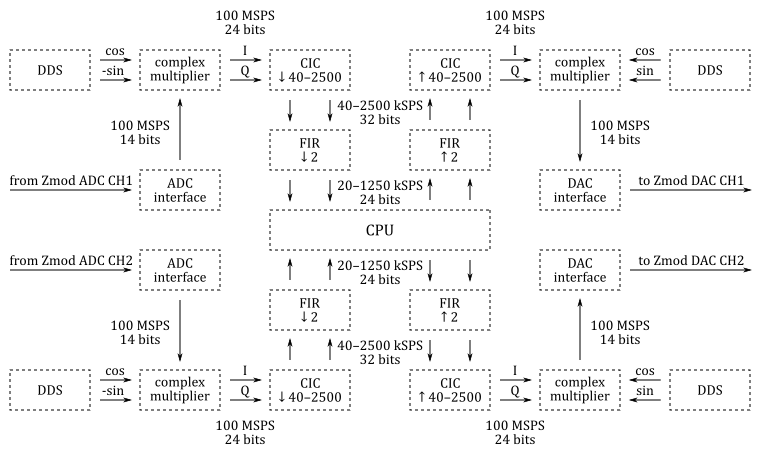
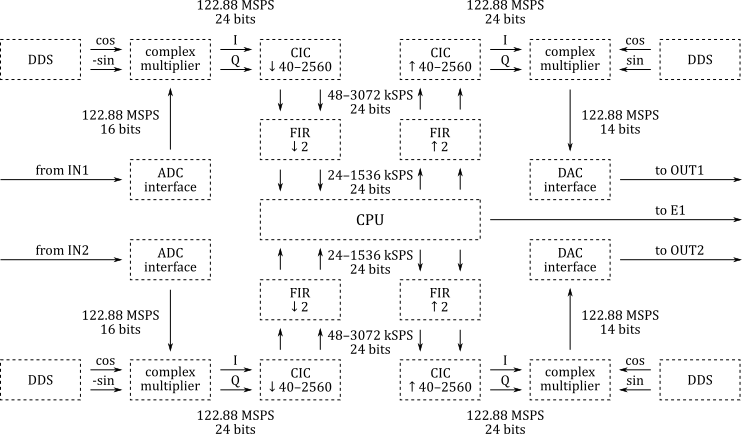
update sdr-transceiver

Changed region(s): [[0.0, 0.0, 1.0, 1.0], [0.0, 0.5392, 0.31, 0.659], [0.279, 0.5691, 0.31, 0.5991]]

diff --git a/sdr-transceiver.md b/sdr-transceiver.md
@@ -9,14 +9,14 @@ Introduction
 
 This is a port of the SDR transceiver application for the Red Pitaya board to the Eclypse Z7 board.
 
-The SDR transceiver application for the Red Pitaya board is described at [this link](http://pavel-demin.github.io/red-pitaya-notes/sdr-transceiver).
+The SDR transceiver application for the Red Pitaya board is described at [this link](http://pavel-demin.github.io/red-pitaya-notes/sdr-transceiver-122-88).
 
 All programs and libraries that work with the SDR transceiver application for the Red Pitaya board should also work with this port.
 
-This application requires Zmod ADC and Zmod DAC to be connected to the Eclypse Z7 board as follows:
+This application requires Zmod Digitizer and Zmod AWG to be connected to the Eclypse Z7 board as follows:
 
- - Zmod ADC is connected to ZMOD A connector
- - Zmod DAC is connected to ZMOD B connector
+ - Zmod Digitizer is connected to ZMOD A connector
+ - Zmod AWG is connected to ZMOD B connector
 
 Hardware
 -----
@@ -25,19 +25,19 @@ The SDR transceiver consists of two SDR receivers and of two SDR transmitters.
 
 The implementation of the SDR receivers is quite straightforward:
 
- - An antenna is connected to one of the inputs of the Zmod ADC module.
- - The on-board ADC (100 MS/s sampling frequency, 14-bit resolution) digitizes the RF signal from the antenna.
+ - An antenna is connected to one of the inputs of the Zmod Digitizer module.
+ - The on-board ADC (122.88 MS/s sampling frequency, 14-bit resolution) digitizes the RF signal from the antenna.
  - The data coming from the ADC is processed by a in-phase/quadrature (I/Q) digital down-converter (DDC) running on the FPGA.
 
 The SDR transmitters consist of the similar blocks but arranged in an opposite order:
 
  - The I/Q data is processed by a digital up-converter (DUC) running on the FPGA.
- - The on-board DAC (100 MS/s sampling frequency, 14-bit resolution) outputs RF signal.
- - An antenna is connected to one of the outputs of the Zmod DAC module.
+ - The on-board DAC (122.88 MS/s sampling frequency, 14-bit resolution) outputs RF signal.
+ - An antenna is connected to one of the outputs of the Zmod AWG module.
 
-The tunable frequency range covers from 0 Hz to 50 MHz.
+The tunable frequency range covers from 0 Hz to 122.88 MHz.
 
-The I/Q data rate is configurable and five settings are available: 20, 50, 100, 250, 500 and 1250 kSPS.
+The I/Q data rate is configurable and five settings are available: 24, 48, 96, 192, 384, 768 and 1536 kSPS.
 
 The basic blocks of the digital down-converters (DDC) and of the digital up-converters (DUC) are shown on the following diagram:
 
@@ -48,38 +48,32 @@ The [projects/sdr_transceiver](https://github.com/pavel-demin/eclypse-z7-notes/t
 Software
 -----
 
-The [projects/sdr_transceiver/server](https://github.com/pavel-demin/eclypse-z7-notes/tree/master/projects/sdr_transceiver/server) directory contains the source code of the TCP server ([sdr-transceiver.c](https://github.com/pavel-demin/eclypse-z7-notes/blob/master/projects/sdr_transceiver/server/sdr-transceiver.c)) that receives control commands and transmits/receives the I/Q data streams (up to 2 x 32 bit x 1250 kSPS = 76.3 Mbit/s) to/from the SDR programs.
+The [projects/sdr_transceiver/server](https://github.com/pavel-demin/eclypse-z7-notes/tree/master/projects/sdr_transceiver/server) directory contains the source code of the TCP server ([sdr-transceiver.c](https://github.com/pavel-demin/eclypse-z7-notes/blob/master/projects/sdr_transceiver/server/sdr-transceiver.c)) that receives control commands and transmits/receives the I/Q data streams (up to 2 x 32 bit x 1536 kSPS = 91.6 Mbit/s) to/from the SDR programs.
 
 The [projects/sdr_transceiver/gnuradio](https://github.com/pavel-demin/eclypse-z7-notes/tree/master/projects/sdr_transceiver/gnuradio) directory contains an example of a flow graph configuration for [GNU Radio Companion](https://wiki.gnuradio.org/index.php/GNURadioCompanion).
 
 Getting started with GNU Radio
 -----
 
- - Connect an antenna to the CH1 connector of the Zmod ADC module.
+ - Connect an antenna to the CH1 connector of the Zmod Digitizer module.
  - Download [SD card image zip file]({{ site.release-image }}) (more details about the SD card image can be found at [this link]({{ "/alpine/" | prepend: site.baseurl }})).
  - Copy the contents of the SD card image zip file to a micro SD card.
  - Optionally, to start the application automatically at boot time, copy its `start.sh` file from `apps/sdr_transceiver` to the topmost directory on the SD card.
  - Install the micro SD card in the Eclypse Z7 board and connect the power.
- - Install [GNU Radio](https://gnuradio.org).
- - Download [flow graph example](https://github.com/pavel-demin/eclypse-z7-notes/raw/master/projects/sdr_transceiver/gnuradio/trx_dual_template.grc).
- - Run [GNU Radio Companion](https://wiki.gnuradio.org/index.php/GNURadioCompanion) and open flow graph example.
-
-Getting started with SDR# and HDSDR
------
-
- - Connect an antenna to the CH1 connector of the Zmod ADC module.
- - Download [SD card image zip file]({{ site.release-image }}) (more details about the SD card image can be found at [this link]({{ "/alpine/" | prepend: site.baseurl }})).
- - Copy the contents of the SD card image zip file to a micro SD card.
- - Optionally, to start the application automatically at boot time, copy its `start.sh` file from `apps/sdr_transceiver` to the topmost directory on the SD card.
- - Install the micro SD card in the Eclypse Z7 board and connect the power.
- - Download and install [SDR#](https://www.dropbox.com/sh/5fy49wae6xwxa8a/AAAdAcU238cppWziK4xPRIADa/sdr/sdrsharp_v1.0.0.1361_with_plugins.zip?dl=1) or [HDSDR](http://www.hdsdr.de/).
- - Download and install [Microsoft Visual C++ Redistributable for Visual Studio 2019](https://visualstudio.microsoft.com/downloads/#microsoft-visual-c-redistributable-for-visual-studio-2019).
- - Download [ExtIO plug-in](https://www.dropbox.com/sh/5fy49wae6xwxa8a/AAABy8xWrv4wFFbkYfmVU6DGa/sdr/ExtIO_RedPitaya_TRX.dll?dl=1) for SDR# and HDSDR.
- - Copy `ExtIO_RedPitaya_TRX.dll` into the SDR# or HDSDR installation directory.
- - Start SDR# or HDSDR.
- - Select Red Pitaya SDR TRX from the Source list in SDR# or from the Options [F7] &rarr; Select Input menu in HDSDR.
- - Press Configure icon in SDR# or press ExtIO button in HDSDR, then type in the IP address of the Eclypse Z7 board and close the configuration window.
- - Press Play icon in SDR# or press Start [F2] button in HDSDR.
+ - Install [GNU Radio](http://gnuradio.org):
+{% highlight bash %}
+sudo apt-get install gnuradio
+{% endhighlight %}
+ - Clone the source code repository:
+{% highlight bash %}
+git clone https://github.com/pavel-demin/eclypse-z7-notes
+{% endhighlight %}
+ - Run [GNU Radio Companion](http://gnuradio.org/redmine/projects/gnuradio/wiki/GNURadioCompanion) and open FM receiver flow graph:
+{% highlight bash %}
+cd eclypse-z7-notes/projects/sdr_transceiver/gnuradio
+export GRC_BLOCKS_PATH=.
+gnuradio-companion fm.grc
+{% endhighlight %}
 
 Building from source
 -----
